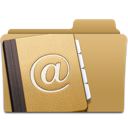
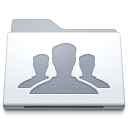
- Changement d'icone de Contacts&Organisation pour une meilleure visibilité lorsque petite taille - Répertoire des organisations & contacts
git-svn-id: svn://zone.spip.org/spip-zone/_plugins_@47056 ac52e18a-acf5-0310-9fe8-c4428f23b10a

diff --git a/contacts_et_organisations/prive/liste/repertoire_contacts.html b/contacts_et_organisations/prive/liste/repertoire_contacts.html
@@ -5,21 +5,12 @@
 }})
 ]<B_liste_contacts>
 #ANCRE_PAGINATION
-<div class="liste-elements contacts">
+<div class="liste-elements contacts repertoire">
 <table class='spip liste'>
 [<caption><strong class="caption">(#ENV*{titre,<:contacts:info_tous_contacts:>})</strong></caption>]
-	<thead>
-		<tr class='first_row'>
-			<th class="logo"></th>
-			<th class="nom">[(#TRI{nom,<:contacts:label_prenom_nom:>,ajax})]</th>
-			<th class="organsiation">[(#TRI{organsiation,<:contacts:label_organisation:>,ajax})]</th>
-			<th class='action'></th>
-		</tr>
-	</thead>
 	<tbody>
 	<BOUCLE_liste_contacts(CONTACTS)
 		{id_organisation?}{recherche ?}
-		{auteurs.statut == #ENV{statut,.*}}
 		{tri #ENV{order,nom},#GET{defaut_tri}}{pagination #ENV{nb,20}}>
 		<tr class="[(#COMPTEUR_BOUCLE|alterner{row_odd,row_even})]">
 			<BOUCLE_lien_contact(contacts_liens){id_contact}>
@@ -29,13 +20,6 @@
 			<//BOUCLE_lien_contact>
 			<td class="logo"><a href="[(#GET{url})]">#INCLURE{fond=logo/contact, id_contact}</a></td>
 			<td class='nom'><a href="[(#ID_CONTACT|generer_url_entite{contact})]">[<span class="#EDIT{prenom}">(#PRENOM)</span> ]#NOM</a></td>
-			<td class='organsiation'>#ORGANISATIONS</td>			
-			<td class='action'>[(#AUTORISER{modifier, contact, #ID_CONTACT}|oui)
-				[(#BOUTON_ACTION{
-					[(#CHEMIN{images/supprimer-16.png}|balise_img{<:contacts:supprimer_contact:>})],
-					[(#URL_ACTION_AUTEUR{supprimer_contact,[contact/(#ID_CONTACT)],[(#ENV{redirect,#SELF})]})],
-					ajax,<:contacts:confirmer_supprimer_contact:>})]
-			]</td>
 		</tr>
 	</BOUCLE_liste_contacts>
 	</tbody>

diff --git a/contacts_et_organisations/prive/style_prive_plugin_contacts.html b/contacts_et_organisations/prive/style_prive_plugin_contacts.html
@@ -27,9 +27,21 @@
 .liste-elements.organisations tr th.logo,
 .liste-elements.organisations tr td.logo,
 .liste-elements.contacts tr th.logo,
-.liste-elements.contacts tr td.logo { width:20px;}
+.liste-elements.contacts tr td.logo{ width:20px;}
 
 .liste-elements.organisations tr td.nb_contacts { width:90px;}
+
+.liste-elements.organisations .liste-elements {border:none; font-size:100%;}
+#contenu .liste-elements.repertoire .caption  {padding-left:6px;}
+#contenu .liste-elements.repertoire .liste-elements .caption  {font-weight:normal;}
+#contenu .liste-elements.repertoire {border:none;}
+#contenu .liste-elements.repertoire tr.racine>td:first-child  {border-left:1px solid #DFDFDF; padding-left:1em;}
+#contenu .liste-elements.repertoire tr.racine>td:last-child  {border-right:1px solid #DFDFDF;}
+#contenu .liste-elements.repertoire .liste-elements td  {border:none;}
+.liste-elements.repertoire td.nom a.racine  {font-size:140%;}
+.liste-elements.repertoire tr.racine>td  {padding-top:1.5em;}
+
+.liste-elements.repertoire tr.vide>td  {background:#F8F7F3; height:3em;}
 
 .logo_navigation {text-align:center;border:none;}
 

diff --git a/contacts_et_organisations/prive/exec/repertoire.html b/contacts_et_organisations/prive/exec/repertoire.html
@@ -1,26 +1,25 @@
-<!--#hierarchie-->
-<!--/#hierarchie-->
- 
-
-
 
 
 <!--#navigation-->
 <div class="logo_navigation">
 <img src="#CHEMIN{images/contacts-128.png}" width="128" height="128" alt="Logo plugin" />
 </div>
+
+<div class="cadre cadre-r cadre_padding">
+<BOUCLE_nb_organisations(ORGANISATIONS){tout}> </BOUCLE_nb_organisations>[(#GRAND_TOTAL|singulier_ou_pluriel{'contacts:organisation', 'contacts:organisations_nb'})<br />]</B_nb_organisations>
+<BOUCLE_nb_contacts(CONTACTS){tout}> </BOUCLE_nb_contacts>[(#GRAND_TOTAL|singulier_ou_pluriel{'contacts:contact', 'contacts:contacts_nb'})<br />]</B_nb_contacts>
+</div>
 <!--/#navigation-->
  
 
 
 <!--#extra-->
-
 <!--/#extra-->
 
 
+[(#VAL{contacts}|barre_onglets{repertoire})]
 
 <h1><:contacts:titre_page_repertoire:></h1>
 
-<div><:contacts:explications_page_repertoire:>
 
-[(#INCLURE{fond=prive/liste/repertoire}{env})]
+[(#INCLURE{fond=prive/liste/repertoire, env, ajax})]

diff --git a/contacts_et_organisations/prive/exec/organisations.html b/contacts_et_organisations/prive/exec/organisations.html
@@ -1,7 +1,3 @@
-<!--#hierarchie-->
-<!--/#hierarchie-->
- 
-
 
 
 <!--#navigation-->
@@ -24,6 +20,7 @@
 <!--#extra--><!--/#extra-->
 
 
+[(#VAL{contacts}|barre_onglets{organisations})]
 
 <h1><:contacts:titre_page_organisations:></h1>
 

diff --git a/contacts_et_organisations/prive/exec/contacts.html b/contacts_et_organisations/prive/exec/contacts.html
@@ -1,7 +1,3 @@
-<!--#hierarchie--><!--/#hierarchie-->
- 
-
-
 
 
 <!--#navigation-->
@@ -25,6 +21,7 @@
 <!--#extra--><!--/#extra-->
 
 
+[(#VAL{contacts}|barre_onglets{contacts})]
 
 <h1><:contacts:titre_page_contacts:></h1>
 

diff --git a/contacts_et_organisations/prive/liste/organisations.html b/contacts_et_organisations/prive/liste/organisations.html
@@ -3,8 +3,7 @@
 	nom,1,
 	id_auteur,1
 }})
-]
-<B_liste_orga>
+]<B_liste_orga>
 #ANCRE_PAGINATION
 <div class="liste-elements organisations">
 <table class='spip liste'>

diff --git a/contacts_et_organisations/lang/contacts_fr.php b/contacts_et_organisations/lang/contacts_fr.php
@@ -12,6 +12,8 @@ $GLOBALS[$GLOBALS['idx_lang']] = array(
 	'bouton_rechercher' => "Rechercher",
 	'bouton_contacts' => 'Contacts',
 	'bouton_organisations' => 'Organisations',
+	'bouton_repertoire' => 'Répertoire',
+	'bouton_contacts_organisations' => 'Contacts & Organisations',
 	
 	// C
 	'changer' => "Changer",
@@ -19,6 +21,8 @@ $GLOBALS[$GLOBALS['idx_lang']] = array(
 	'chercher_organisation' => "Chercher",
 	'chercher_statut' => "Statut",
 	'contacts' => 'Contacts',
+	'contact' => 'Un contact',
+	'contacts_nb' => '@nb@ contacts',
 	'contact_creer' => "Créer un contact",
 	'contact_nouveau' => "Nouveau contact",
 	'contact_modifier' => "Modifier un contact",
@@ -71,6 +75,7 @@ $GLOBALS[$GLOBALS['idx_lang']] = array(
 	'info_organisation_appartenance' => "Organisation d'appartenance",
 	'info_organisations_appartenance' => "Organisations d'appartenance",
 	'info_organisations_filles' => "Organisations filles",
+	'info_organisations_meres' => "Organisations mères",
 	'info_contacts_organisation' => "Contacts de l'organisation",
 	
 	// L
@@ -108,6 +113,8 @@ $GLOBALS[$GLOBALS['idx_lang']] = array(
 
 	// O
 	'organisations' => 'Organisations',
+	'organisation_un' => 'Une organisation',
+	'organisations_nb' => '@nb@ organisations',
 	'organisation_nouveau' => 'Nouvelle organisation',
 	'organisation_creer' => 'Créer une organisation',
 	'organisation_creer_fille' => 'Créer une organisation fille',
@@ -131,6 +138,7 @@ $GLOBALS[$GLOBALS['idx_lang']] = array(
 	'titre_organisation' => "D&eacute;tails de l'organisation",
 	'titre_page_contacts' => 'Gestion des contacts',
 	'titre_page_organisations' => 'Gestion des organisations',
+	'titre_page_repertoire' => 'Répertoire',
 	
 );
 

diff --git a/contacts_et_organisations/prive/exec/contacts_fonctions.php b/contacts_et_organisations/prive/exec/contacts_fonctions.php
@@ -1,0 +1,4 @@
+<?php
+include_spip('inc/presentation'); // onglet
+include_spip('inc/boutons'); // barre_onglets
+?>

diff --git a/contacts_et_organisations/prive/exec/organisations_fonctions.php b/contacts_et_organisations/prive/exec/organisations_fonctions.php
@@ -1,0 +1,4 @@
+<?php
+include_spip('inc/presentation'); // onglet
+include_spip('inc/boutons'); // barre_onglets
+?>

diff --git a/contacts_et_organisations/prive/exec/repertoire_fonctions.php b/contacts_et_organisations/prive/exec/repertoire_fonctions.php
@@ -1,0 +1,4 @@
+<?php
+include_spip('inc/presentation'); // onglet
+include_spip('inc/boutons'); // barre_onglets
+?>
